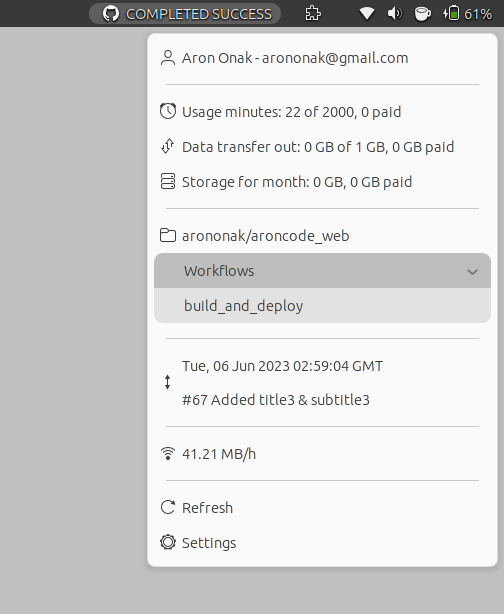
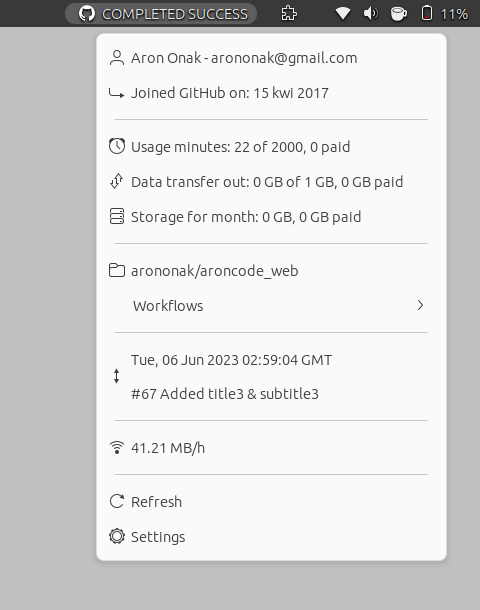
Added account join date

Changed region(s): [[0.125, 0.0, 1.0, 0.9344], [0.5938, 0.0, 0.625, 0.0311]]

diff --git a/github-actions@arononak.github.io/extension.js b/github-actions@arononak.github.io/extension.js
@@ -51,10 +51,14 @@ async function refresh(settings, indicator) {
             let userLogin;
             let userEmail;
             let userName;
+            let createdAt;
+            let userUrl;
             if (user != null) {
                 userLogin = user['login']
                 userEmail = user['email'];
                 userName = user['name'];
+                createdAt = new Date(user['created_at']);
+                userUrl = user['html_url'];
             }
 
             const minutes = await dataRepository.fetchUserBillingActionsMinutes(userLogin);
@@ -117,9 +121,13 @@ async function refresh(settings, indicator) {
             }
 
             indicator.label.text = currentState;
+            
             indicator.workflowUrl = workflowUrl;
             indicator.repositoryUrl = repositoryUrl;
+            indicator.userUrl = userUrl;
+
             indicator.userItem.label.text = (userName == null || userEmail == null) ? 'Not logged' : userName + ' - ' + userEmail;
+            indicator.joinedItem.label.text = 'Joined GitHub on: ' + createdAt.toLocaleFormat('%d %b %Y');
             indicator.minutesItem.label.text = parsedMinutes == null ? 'Not logged' : parsedMinutes;
             indicator.packagesItem.label.text = parsedPackages == null ? 'Not logged' : parsedPackages;
             indicator.sharedStorageItem.label.text = parsedSharedStorage == null ? 'Not logged' : parsedSharedStorage;
@@ -141,6 +149,7 @@ const Indicator = GObject.registerClass(
 
             this.workflowUrl = "";
             this.repositoryUrl = "";
+            this.userUrl = "";
 
             this.icon = new St.Icon({ style_class: 'system-status-icon' });
             this.icon.gicon = Gio.icon_new_for_string(`${Me.path}/github.svg`);
@@ -152,8 +161,13 @@ const Indicator = GObject.registerClass(
 
             /// Username + email
             this.userItem = new PopupMenu.PopupImageMenuItem(loadingText, 'avatar-default-symbolic');
-            this.userItem.connect('activate', () => { });
+            this.userItem.connect('activate', () => utils.openUrl(this.userUrl));
             this.menu.addMenuItem(this.userItem);
+
+            /// Created at
+            this.joinedItem = new PopupMenu.PopupImageMenuItem(loadingText, 'mail-forward-symbolic');
+            this.joinedItem.connect('activate', () => { });
+            this.menu.addMenuItem(this.joinedItem);
             this.menu.addMenuItem(new PopupMenu.PopupSeparatorMenuItem());
 
             /// Billing Actions minutes
